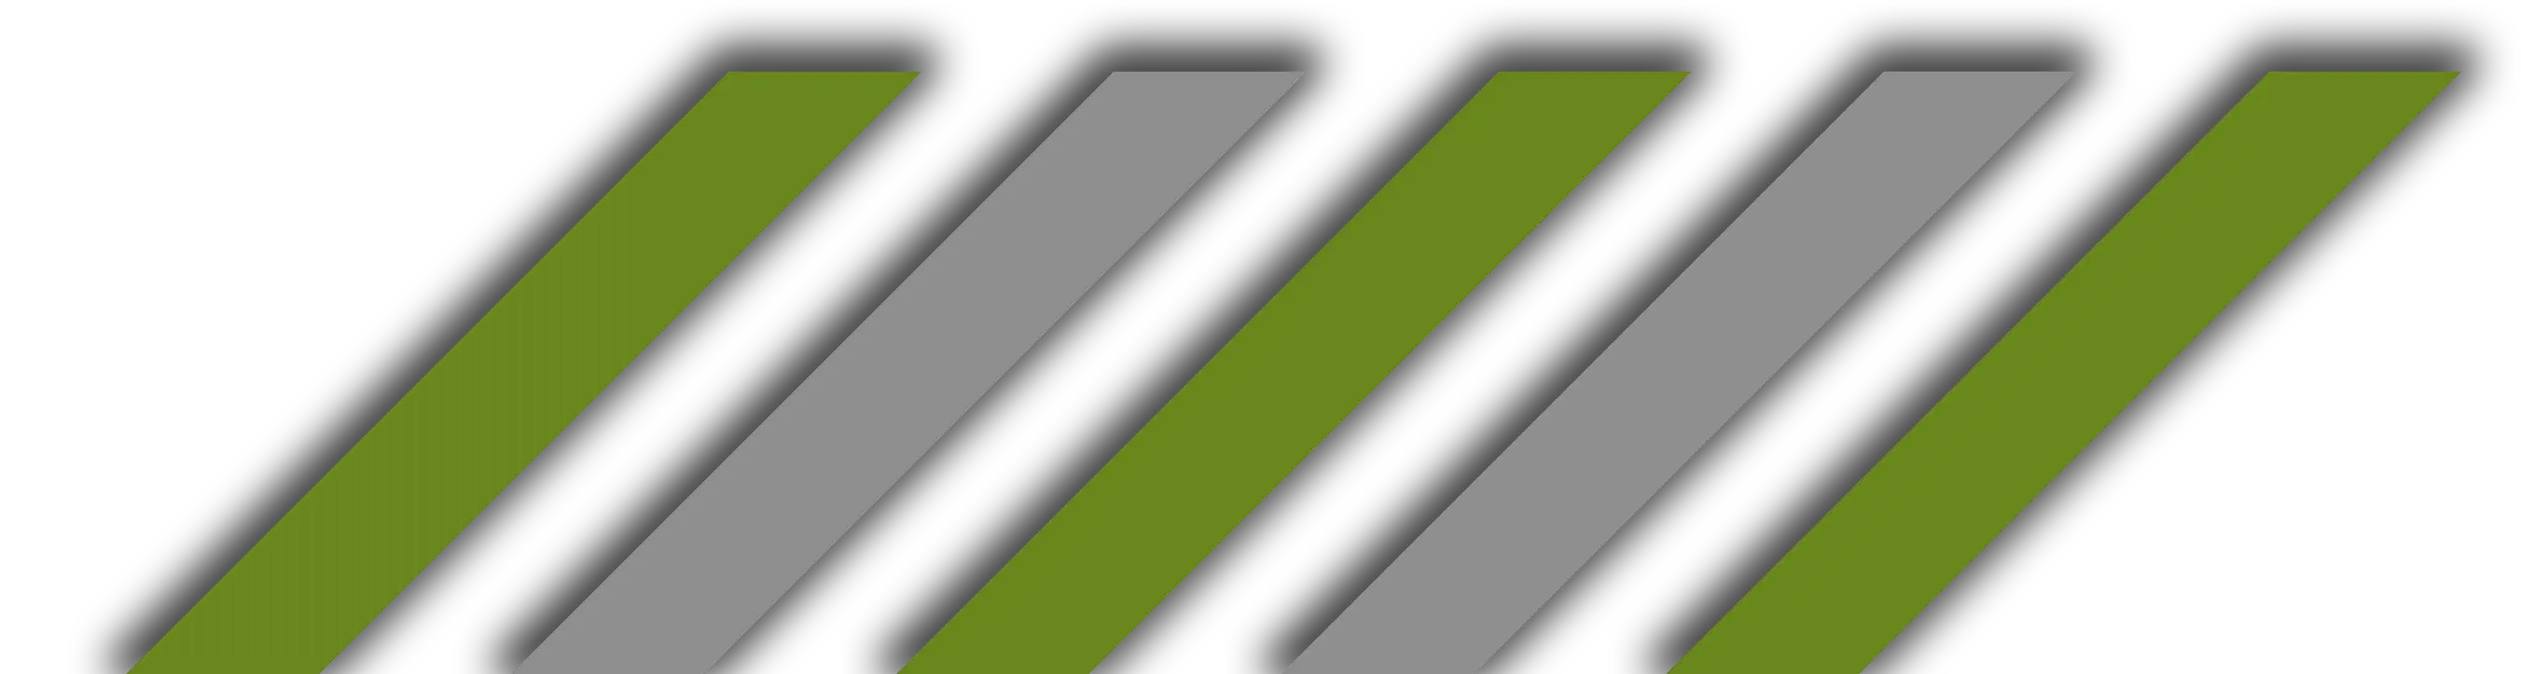
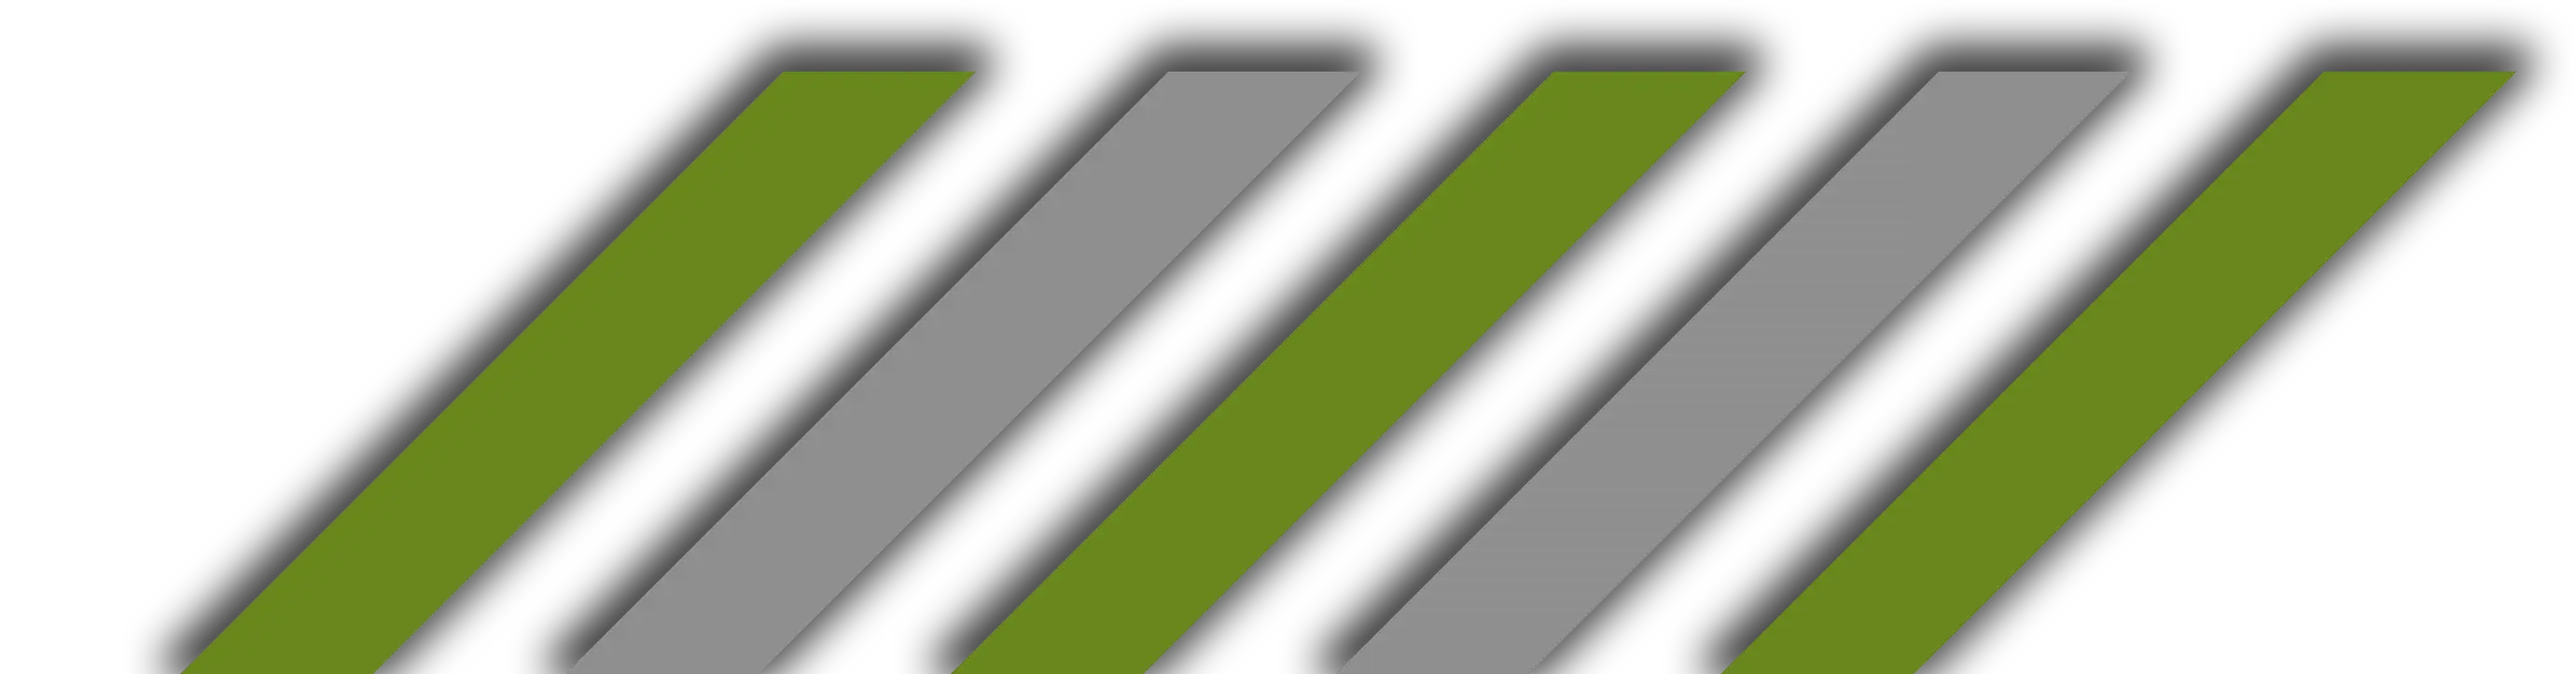
Added stripe overlays to the projects thumbnails!

diff --git a/frontend/src/components/home-page/ProjectThumbnail.module.scss b/frontend/src/components/home-page/ProjectThumbnail.module.scss
@@ -16,56 +16,74 @@
     flex: 0 1 calc(33.333% - projectsList.$projectsListGap * (2 / 3));
   }
 
-  @media screen and (hover: hover) {
-    &:hover {
-      .thumbBg {
+  // @media screen and (hover: hover) {
+  // &:hover {
+  .thumbBg {
+    filter: blur(0);
+    opacity: 1;
+  }
+  .vignette {
+    opacity: 0.5;
+    transition: opacity 0.3s linear;
+  }
+
+  .thumbContent {
+    opacity: 1;
+
+    > * {
+      transform: translateX(0);
+      filter: blur(0);
+
+      &:nth-child(1) {
+        transition-delay: 0s;
+      }
+    }
+  }
+  // }
+  // }
+
+  // @media screen and (hover: none) {
+  &.projectThumbnailFocus {
+    .thumbBg {
+      filter: blur(0);
+      opacity: 1;
+    }
+
+    .vignette {
+      opacity: 0.5;
+      transition: opacity 0.3s linear;
+    }
+
+    .thumbContent {
+      opacity: 1;
+
+      > * {
+        transform: translateX(0);
         filter: blur(0);
-        opacity: 1;
-      }
-      .vignette {
-        opacity: 0.5;
-        transition: opacity 0.3s linear;
-      }
 
-      .thumbContent {
-        opacity: 1;
-
-        > * {
-          transform: translateX(0);
-          filter: blur(0);
-
-          &:nth-child(1) {
-            transition-delay: 0s;
-          }
+        &:nth-child(1) {
+          transition-delay: 0s;
         }
       }
     }
   }
+  // }
 
-  @media screen and (hover: none) {
-    &.projectThumbnailFocus {
-      .thumbBg {
-        filter: blur(0);
-        opacity: 1;
-      }
+  &:hover {
+    .stripesTop {
+      transform: translateX(-50%)
+        translate(
+          calc(var(--thumb-height) * 1.06),
+          calc(var(--thumb-height) * -1.06)
+        );
+    }
 
-      .vignette {
-        opacity: 0.5;
-        transition: opacity 0.3s linear;
-      }
-
-      .thumbContent {
-        opacity: 1;
-
-        > * {
-          transform: translateX(0);
-          filter: blur(0);
-
-          &:nth-child(1) {
-            transition-delay: 0s;
-          }
-        }
-      }
+    .stripesBottom {
+      transform: translateX(-50%)
+        translate(
+          calc(var(--thumb-height) * -1.06),
+          calc(var(--thumb-height) * 1.06)
+        );
     }
   }
 }
@@ -74,21 +92,28 @@
 .stripes {
   position: absolute;
   height: 125%;
-  width: 100%;
-  background-position: center center;
+  width: 200%;
+  left: 50%;
+  background-position: center;
   background-size: cover;
   background-repeat: no-repeat;
+  transition: transform 0.3s ease-out;
+  transform: translateX(-50%);
   z-index: 1;
   pointer-events: none;
   background-image: url("/images/projects-list/stripes-black.webp");
 }
 
+$offsetFactor: 0.13;
+
 .stripesTop {
   top: 0;
+  background-position-x: calc(50% - var(--thumb-height) * $offsetFactor);
 }
 
 .stripesBottom {
   bottom: 0;
+  background-position-x: calc(50% + var(--thumb-height) * $offsetFactor);
 }
 
 .brandLogo {
@@ -125,11 +150,13 @@ h4.thumbTitle {
   display: flex;
   flex-direction: column;
   left: 0;
+  bottom: 0;
+  z-index: 1000;
   padding-left: 20px;
   padding-top: 16px;
   width: 100%;
-  height: 100px;
-  opacity: 0.01; // Too small a decimal causes a frame drop? Seems like it.
+  height: 50px;
+  opacity: 0.01; // Too small a decimal causes a frame drop.
   will-change: opacity, filter;
   background-color: rgba(0, 0, 0, 0.5);
   transition: opacity 0.3s linear;
@@ -143,18 +170,20 @@ h4.thumbTitle {
       filter 0.3s linear;
     filter: blur(10px);
 
-    &:first-child {
-      transform: translateX(-20%);
-      height: 44px;
-    }
+    // &:first-child {
+    //   transform: translateX(-50%);
+    //   visibility: hidden;
+    //   height: 44px;
+    // }
 
-    &:nth-child(2) {
-      transition-delay: 0.03s;
-      transform: translateX(20%);
-    }
+    // &:nth-child(2) {
+    // transition-delay: 0.03s;
+    // transform: translateX(20%);
+    // }
   }
 
   &.hoverFocusThumbContent {
+    z-index: 1000;
     opacity: 1;
 
     > * {

diff --git a/frontend/src/components/home-page/ProjectThumbnail.tsx b/frontend/src/components/home-page/ProjectThumbnail.tsx
@@ -131,11 +131,37 @@ const ProjectThumbnail = forwardRef<HTMLDivElement, ProjectThumbnailProps>(
       backgroundImage: `url('/images/projects-list/stripes-${stripeColor}.webp')`,
     };
 
+    // HEIGHT MEASUREMENT
+    const [thumbHeight, setThumbHeight] = useState(0);
+    const thumbRef = React.useRef<HTMLDivElement>(null);
+
+    useEffect(() => {
+      const el = thumbRef.current;
+      if (!el) return;
+
+      const update = () => {
+        const h = el.offsetHeight;
+        setThumbHeight(h);
+      };
+
+      const ro = new ResizeObserver(update);
+      ro.observe(el);
+
+      update();
+
+      return () => {
+        ro.disconnect();
+      };
+    }, []);
+
     const inner = (
       <>
         <div className={styles.thumbBg} style={style}></div>
         <div className={styles.vignette}></div>
         <div className={styles.thumbContent}>
+          <h4 className={styles.thumbTitle}>
+            {showNdaConfidential ? "Please log in to view this project" : title}
+          </h4>
           <div>
             {(logoSrc || showNdaConfidential) && (
               <Image
@@ -150,9 +176,9 @@ const ProjectThumbnail = forwardRef<HTMLDivElement, ProjectThumbnailProps>(
               />
             )}
           </div>
-          <h4 className={styles.thumbTitle}>
+          {/* <h4 className={styles.thumbTitle}>
             {showNdaConfidential ? "Please log in to view this project" : title}
-          </h4>
+          </h4> */}
         </div>
       </>
     );
@@ -167,8 +193,13 @@ const ProjectThumbnail = forwardRef<HTMLDivElement, ProjectThumbnailProps>(
 
     return (
       <div
+        ref={thumbRef}
         className={`${styles.projectThumbnail} ${focusClass}`}
-        ref={ref}
+        style={
+          {
+            "--thumb-height": `${thumbHeight}px`,
+          } as React.CSSProperties
+        }
       >
         <Link
           href={href}
@@ -177,8 +208,14 @@ const ProjectThumbnail = forwardRef<HTMLDivElement, ProjectThumbnailProps>(
         >
           {inner}
         </Link>
-        <div className={`${styles.stripes} ${styles.stripesBottom}`} style={stripeVars}></div>
-        <div className={`${styles.stripes} ${styles.stripesTop}`}></div>
+        <div
+          ref={ref}
+          className={`${styles.stripes} ${styles.stripesTop}`}
+        ></div>
+        <div
+          className={`${styles.stripes} ${styles.stripesBottom}`}
+          style={stripeVars}
+        ></div>
       </div>
     );
   },

diff --git a/frontend/src/components/home-page/header-main/TitleBranding.module.scss b/frontend/src/components/home-page/header-main/TitleBranding.module.scss
@@ -48,7 +48,7 @@
 }
 
 .title {
-  letter-spacing: 0.15em;
+  letter-spacing: 0.1em;
   line-height: 1.5em;
   margin-bottom: -0.3em;
   margin-top: -0.1em;
